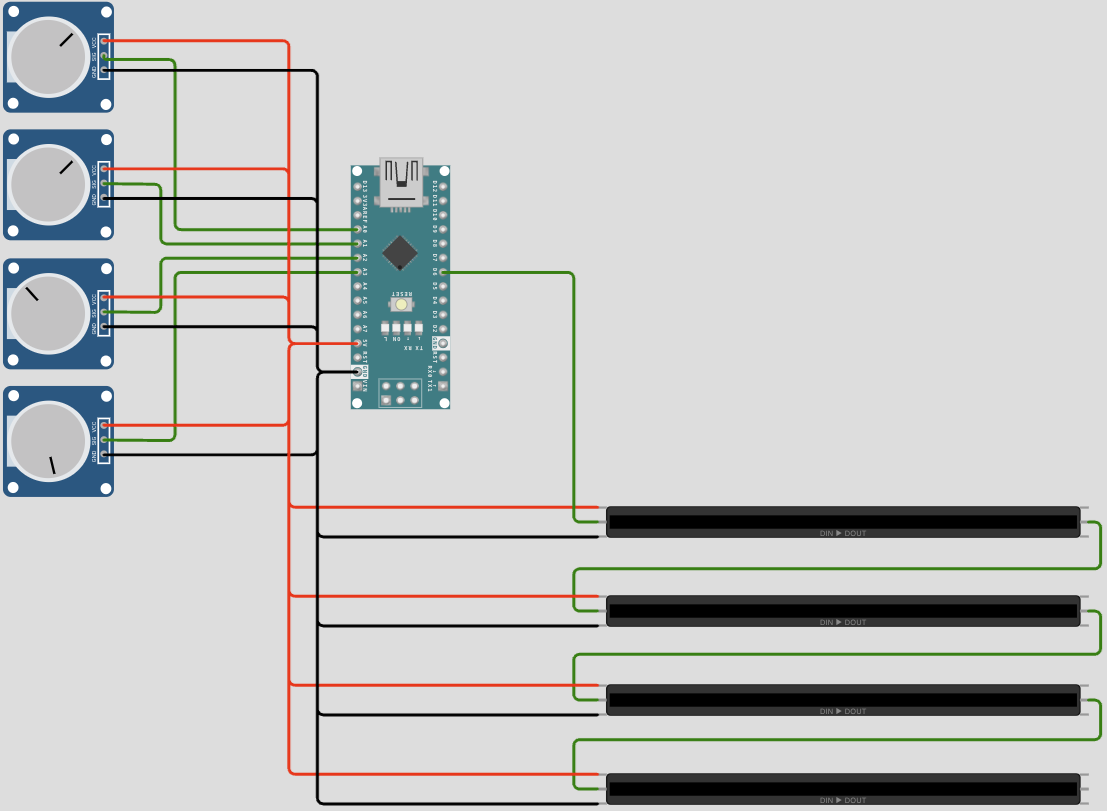
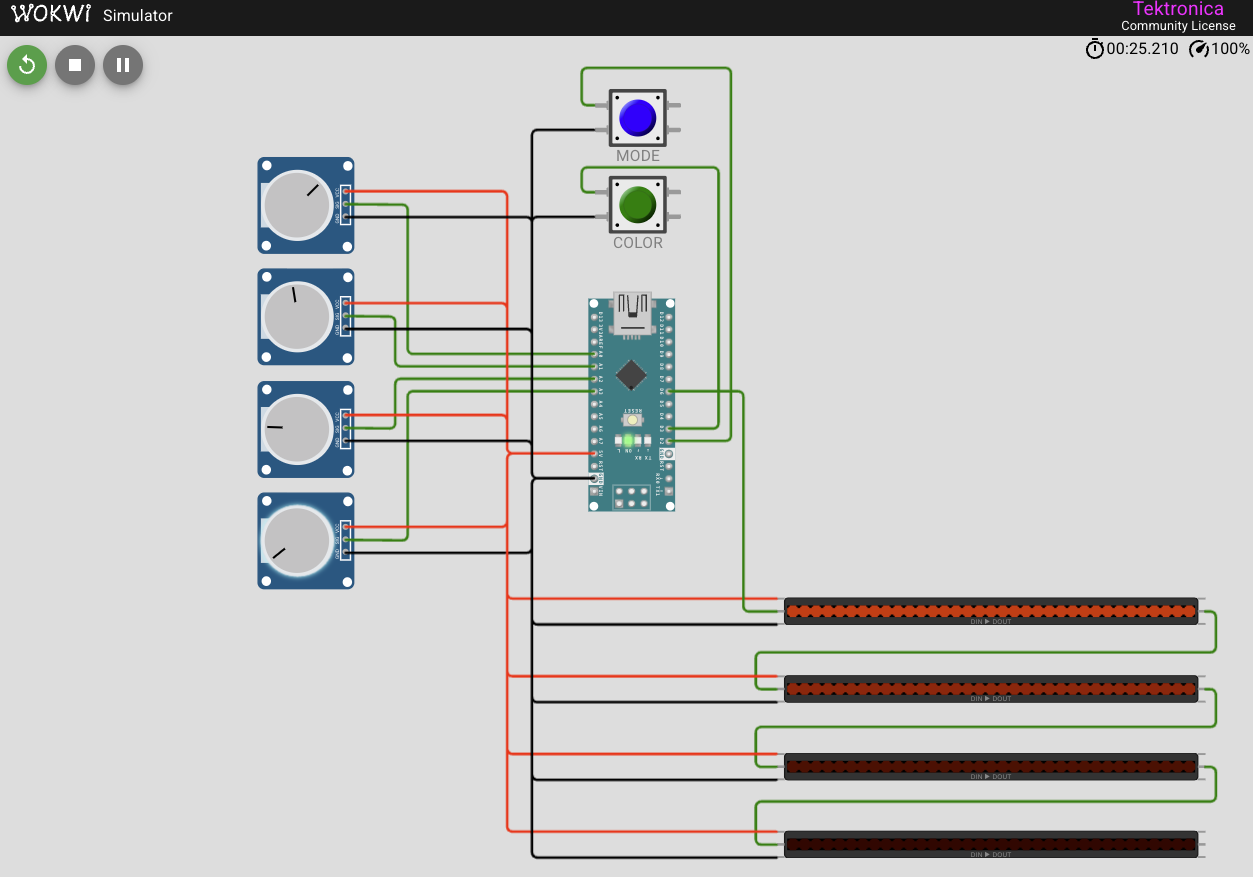
docs: document mode/color switches, palettes, and pixelColor
- What: README/docs/architecture/hardware/simulation now cover the two optional switches (D2 mode, D3 color), the Palette/Mode enums, pixelColor, and the Wokwi pushbuttons
- Why: keep docs matching the new feature
- How: updated feature lists, the structure breakdown, the hardware pin table + BOM, and the sim wiring/run steps
- Benefit: docs and implementation agree again

diff --git a/README.md b/README.md
@@ -9,13 +9,16 @@ it's another PlatformIO environment).
 
 ## What it does
 
-- **N channels** (default 4) — each channel is one **dimmer input** → one **WS2812 LED strip output**.
-- A dimmer's position → a smoothed 0–255 **level** → a **color**, via a swappable curve (`levelColor`).
-- All LED strips are data-chained on one pin and addressed as one logical buffer.
-- FastLED drives the WS2812 LED strips, with a current cap to protect the supply.
+- **N channels** (default 4) — each is one **dimmer input** → one **WS2812 LED strip output**; the
+  dimmer sets a smoothed 0–255 **level** (brightness).
+- **Color** — an optional switch cycles a palette: heat red→orange-red (default), green, blue, white,
+  or a rainbow spanning each LED strip.
+- **Mode** — an optional switch cycles an animation: solid (default), blink, strobe, chase.
+- Both switches are **optional**: unwired (via `INPUT_PULLUP`) they hold the defaults
+  (red-orange, solid). All LED strips chain on one data pin; FastLED drives them with a current cap.
 
-> The default `levelColor` curve ramps deep red → orange-red. The firmware carries **no application
-> meaning** — for an example use (a toy-kitchen cooktop), see **[docs/application](docs/application/)**.
+> The firmware carries **no application meaning** — for an example use (a toy-kitchen cooktop), see
+> **[docs/application](docs/application/)**.
 
 ## Hardware
 
@@ -46,7 +49,7 @@ pio device monitor      # serial monitor
 fw-nano-ledStripDimmer/
 ├── platformio.ini       # env:nano (build/flash) + env:native (host unit tests)
 ├── include/
-│   └── LEDStripDimmer.h  # hardware-free logic: Levels, ADC→level, levelColor curve (unit-tested)
+│   └── LEDStripDimmer.h  # hardware-free logic: Levels, dimmer math, Palette/Mode, pixelColor, Button (unit-tested)
 ├── src/
 │   └── main.cpp         # Arduino glue: pins, FastLED, loop = read dimmer inputs → render LED strip outputs
 ├── test/

diff --git a/docs/architecture/README.md b/docs/architecture/README.md
@@ -18,8 +18,12 @@ preserved in git history.)
 - **`include/LEDStripDimmer.h`** — all hardware-free logic, so it unit-tests off-device:
   - `Levels` — per-channel level (0..255)
   - `adcToLevel()` / `emaStep()` — dimmer scaling + smoothing
-  - `levelColor()` — level → HSV curve (default: off → deep red → orange-red; swappable, no app meaning)
-- **`src/main.cpp`** — Arduino glue + the loop: **read dimmer inputs → render LED strip outputs**.
+  - `Palette` / `Mode` enums + `nextPalette()` / `nextMode()` — what the two optional switches cycle
+  - `pixelColor(palette, mode, level, pixel, stripLen, frame)` — the single render primitive
+    (palette → hue/sat, mode → temporal/spatial gate, level → brightness)
+  - `Button` — debounced rising-edge detect for the switches
+- **`src/main.cpp`** — Arduino glue + the loop: read dimmers + switches → `pixelColor` per pixel →
+  FastLED. A `frame` counter drives the animations; switch pins use `INPUT_PULLUP`.
 
 The one seam worth keeping is **pure logic vs hardware**: everything testable lives in
 `LEDStripDimmer.h` with no `Arduino.h`/FastLED, which is exactly why `pio test -e native` runs it on

diff --git a/docs/README.md b/docs/README.md
@@ -8,11 +8,13 @@ one dimmer (potentiometer) and drives one WS2812 LED strip through a level→col
 
 ## Concept
 
-- **N channels** (default `CHANNEL_COUNT` = 4): each is one dimmer input → one WS2812 LED strip output.
-- Dimmer position → smoothed 0–255 **level** → **color** via `levelColor` (a swappable curve).
-- All LED strips are data-chained on one pin and addressed as one logical buffer
+- **N channels** (default `CHANNEL_COUNT` = 4): each is one dimmer input → one WS2812 LED strip output;
+  the dimmer sets a smoothed 0–255 **level** (brightness).
+- **Optional color switch** cycles a `Palette` (heat red→orange-red [default], green, blue, white,
+  rainbow-per-strip); **optional mode switch** cycles a `Mode` (solid [default], blink, strobe, chase).
+- Both switches use `INPUT_PULLUP`, so unwired they hold the defaults.
+- All LED strips chain on one data pin as one logical buffer
   (`LED_TOTAL` = `CHANNEL_COUNT` × `LED_STRIP_LENGTH` = 140).
-- The default curve ramps off → deep red → orange-red; it carries no application meaning.
 
 ## Status
 

diff --git a/docs/simulation/README.md b/docs/simulation/README.md
@@ -26,6 +26,8 @@ changes are needed.
 1. Build first so the firmware exists: `pio run` (or VS Code **Build**).
 2. Open `diagram.json`, press **F1** → **"Wokwi: Start Simulator"** (or click the green ▶).
 3. **Drag a potentiometer** → its LED strip changes color/brightness, independently of the others.
+4. **Press MODE / COLOR** (the two buttons) to cycle the animation / palette. Unwired, they hold the
+   defaults (solid / red-orange).
 
 ## What the diagram models (must match `src/main.cpp`)
 
@@ -33,6 +35,7 @@ changes are needed.
 |---|---|
 | `PIN_DATA_LED = 6` | Nano **`6`** (not `D6`!) → `ledStrip1:DIN`; each `DOUT`→next `DIN` (4 LED strips chained) |
 | `PIN_DIMMER = {A0,A1,A2,A3}` | pot1–4 `SIG` → **A0–A3**; `VCC`→5V, `GND`→GND |
+| `PIN_SWITCH_MODE = 2`, `PIN_SWITCH_COLOR = 3` | `swMode`/`swColor` pushbuttons → **D2/D3** and GND (optional; `INPUT_PULLUP`) |
 | `LED_STRIP_LENGTH = 35`, `CHANNEL_COUNT = 4` | 4 × `wokwi-led-strip` (`pixels: 35`) = 140 px; power `VDD`→5V, `VSS`→GND |
 
 ## Notes

diff --git a/docs/hardware/README.md b/docs/hardware/README.md
@@ -9,6 +9,7 @@ form-factor — e.g. bending an LED strip into a ring — is application-specifi
 - 1 × Arduino Nano (ATmega328, 5 V)
 - 4 × WS2812 LED strips, 35 LEDs each (`CHANNEL_COUNT` × `LED_STRIP_LENGTH`)
 - 4 × potentiometers (dimmers), one per channel
+- 2 × momentary push switches (optional — cycle mode + color)
 - 1 × 5 V DC power supply (sizing below)
 - 1 × ~330–470 Ω resistor (data line), 1 × ~1000 µF capacitor (5 V rail)
 
@@ -51,5 +52,7 @@ Per-LED full-white draw is ~60 mA @ 5 V (3 channels × ~20 mA) = 0.3 W.
 | Channel 1 dimmer | A1 | analog in |
 | Channel 2 dimmer | A2 | analog in |
 | Channel 3 dimmer | A3 | analog in |
+| Mode switch (`PIN_SWITCH_MODE`, optional) | D2 | `INPUT_PULLUP` → GND; cycles Mode |
+| Color switch (`PIN_SWITCH_COLOR`, optional) | D3 | `INPUT_PULLUP` → GND; cycles Palette |
 
 Use A0–A5 for analog (avoid A6/A7 — analog-only, no internal pull-ups / digital use).
